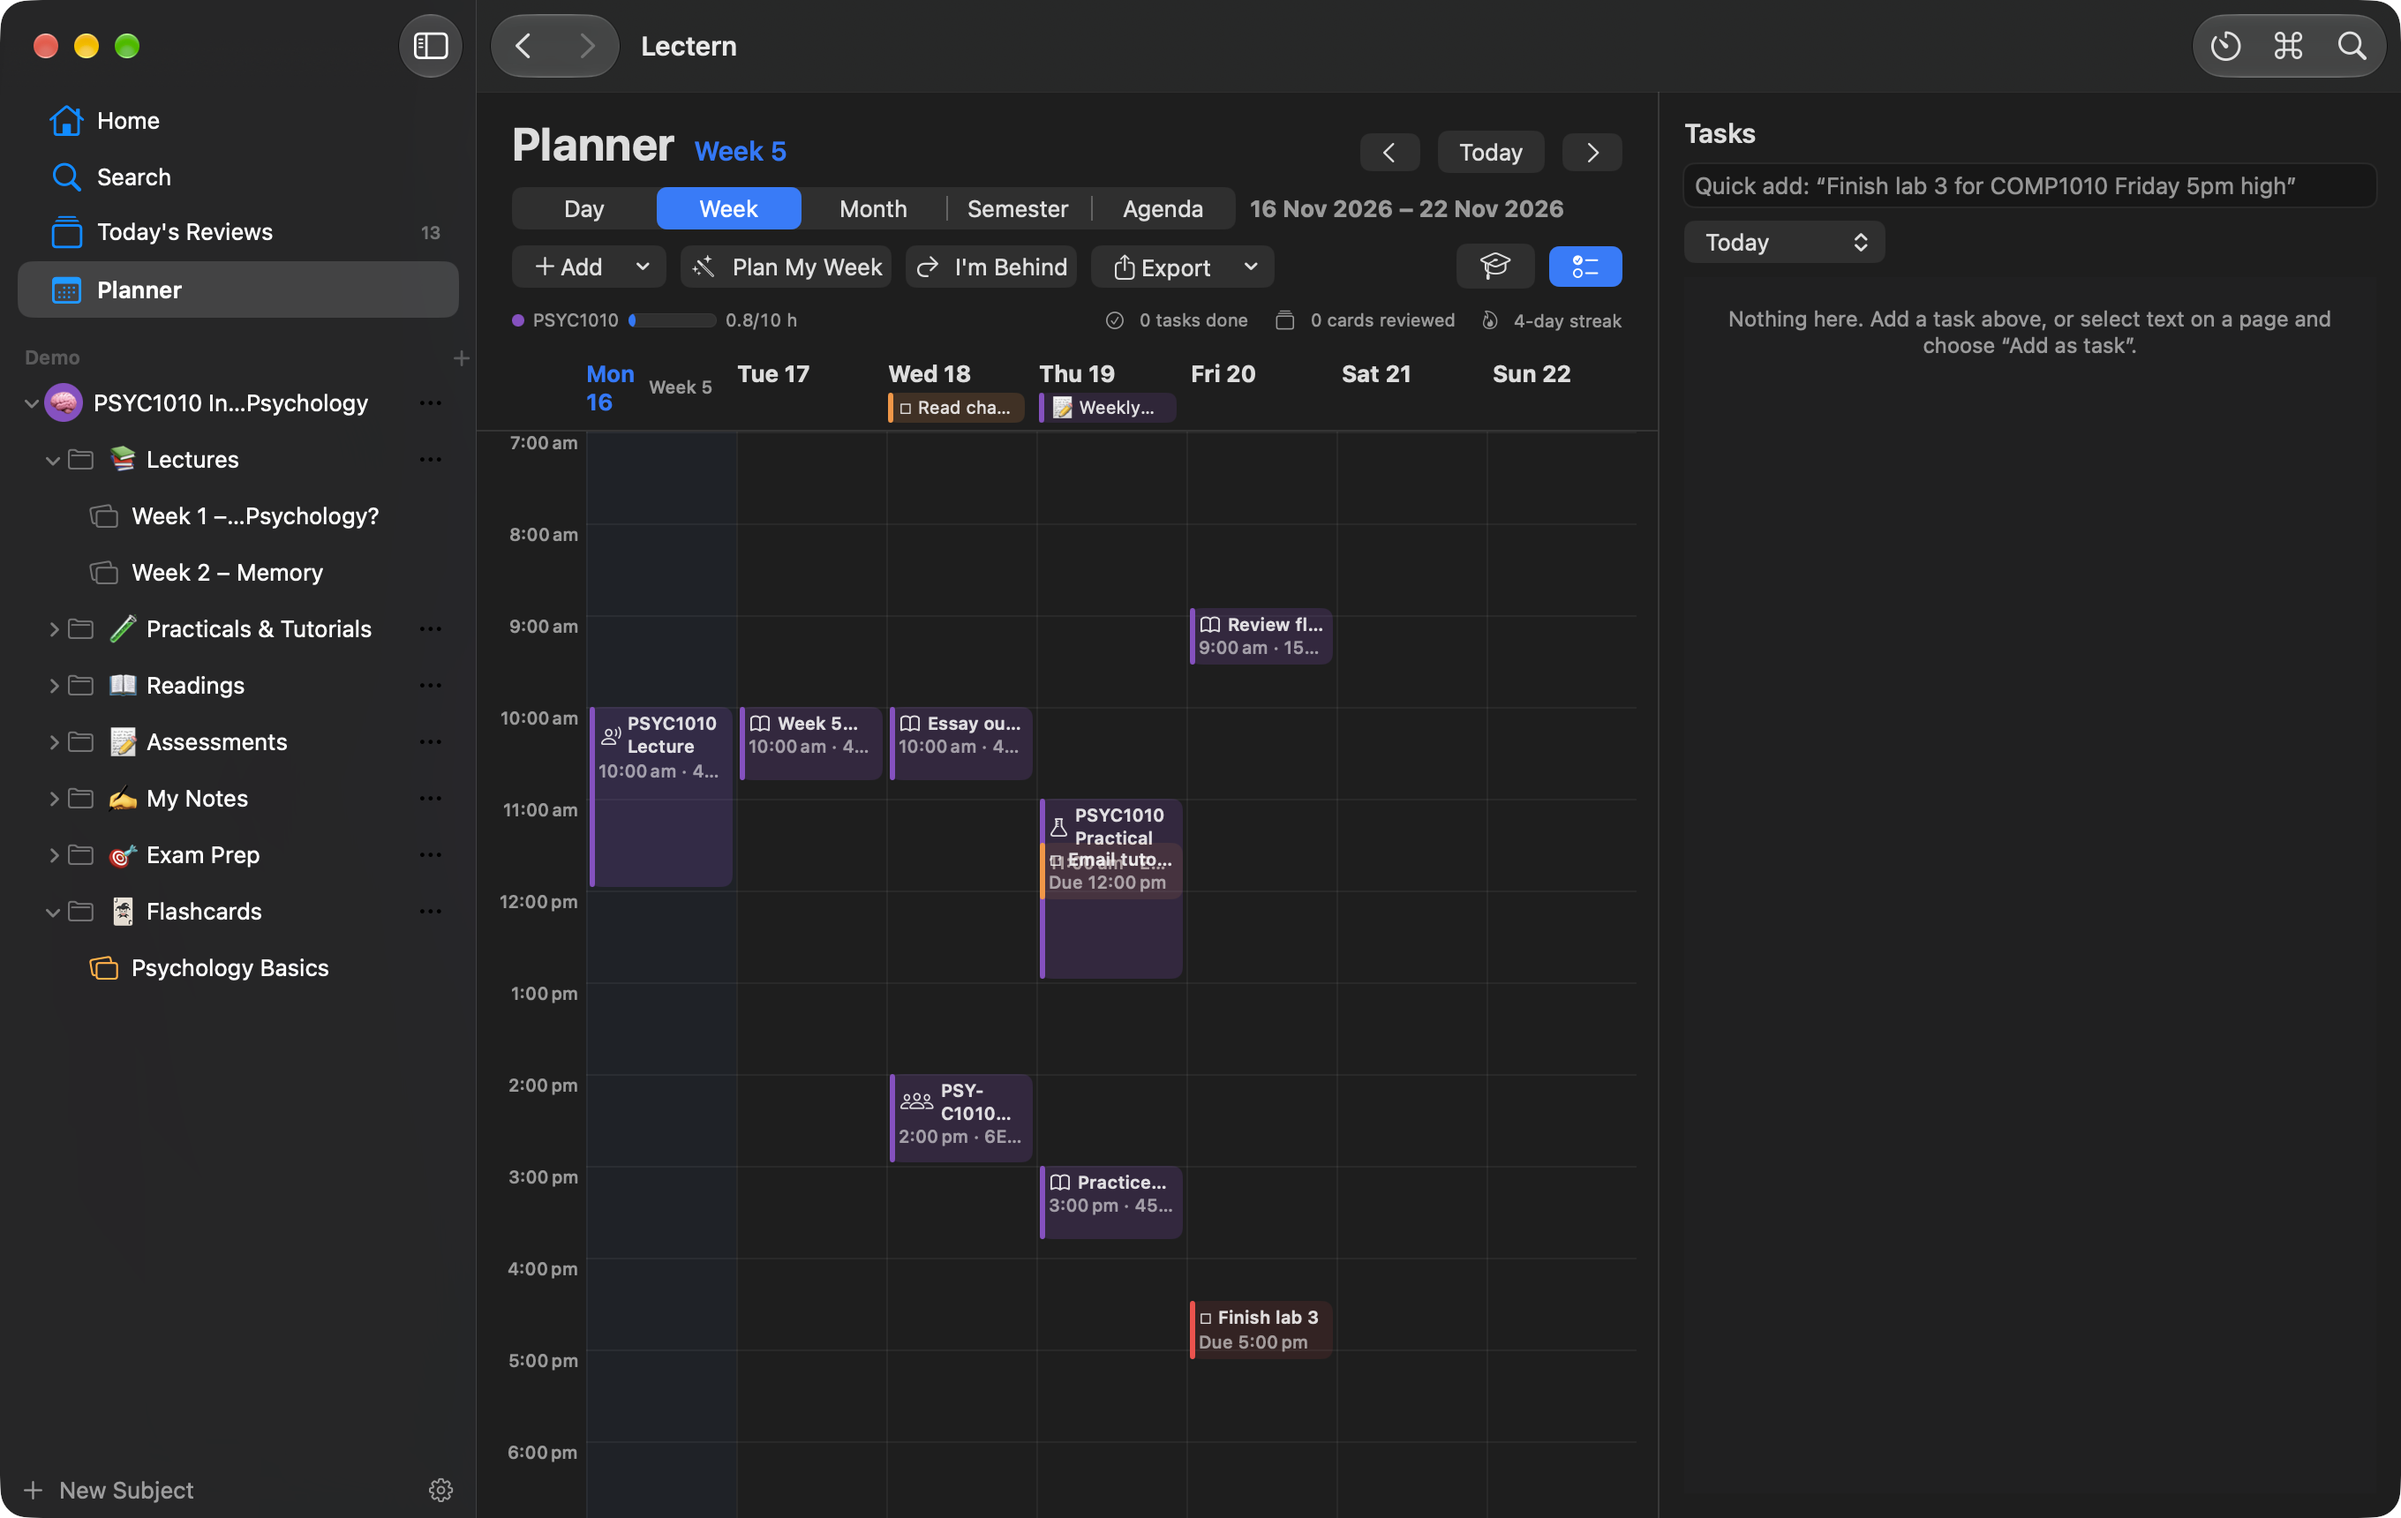
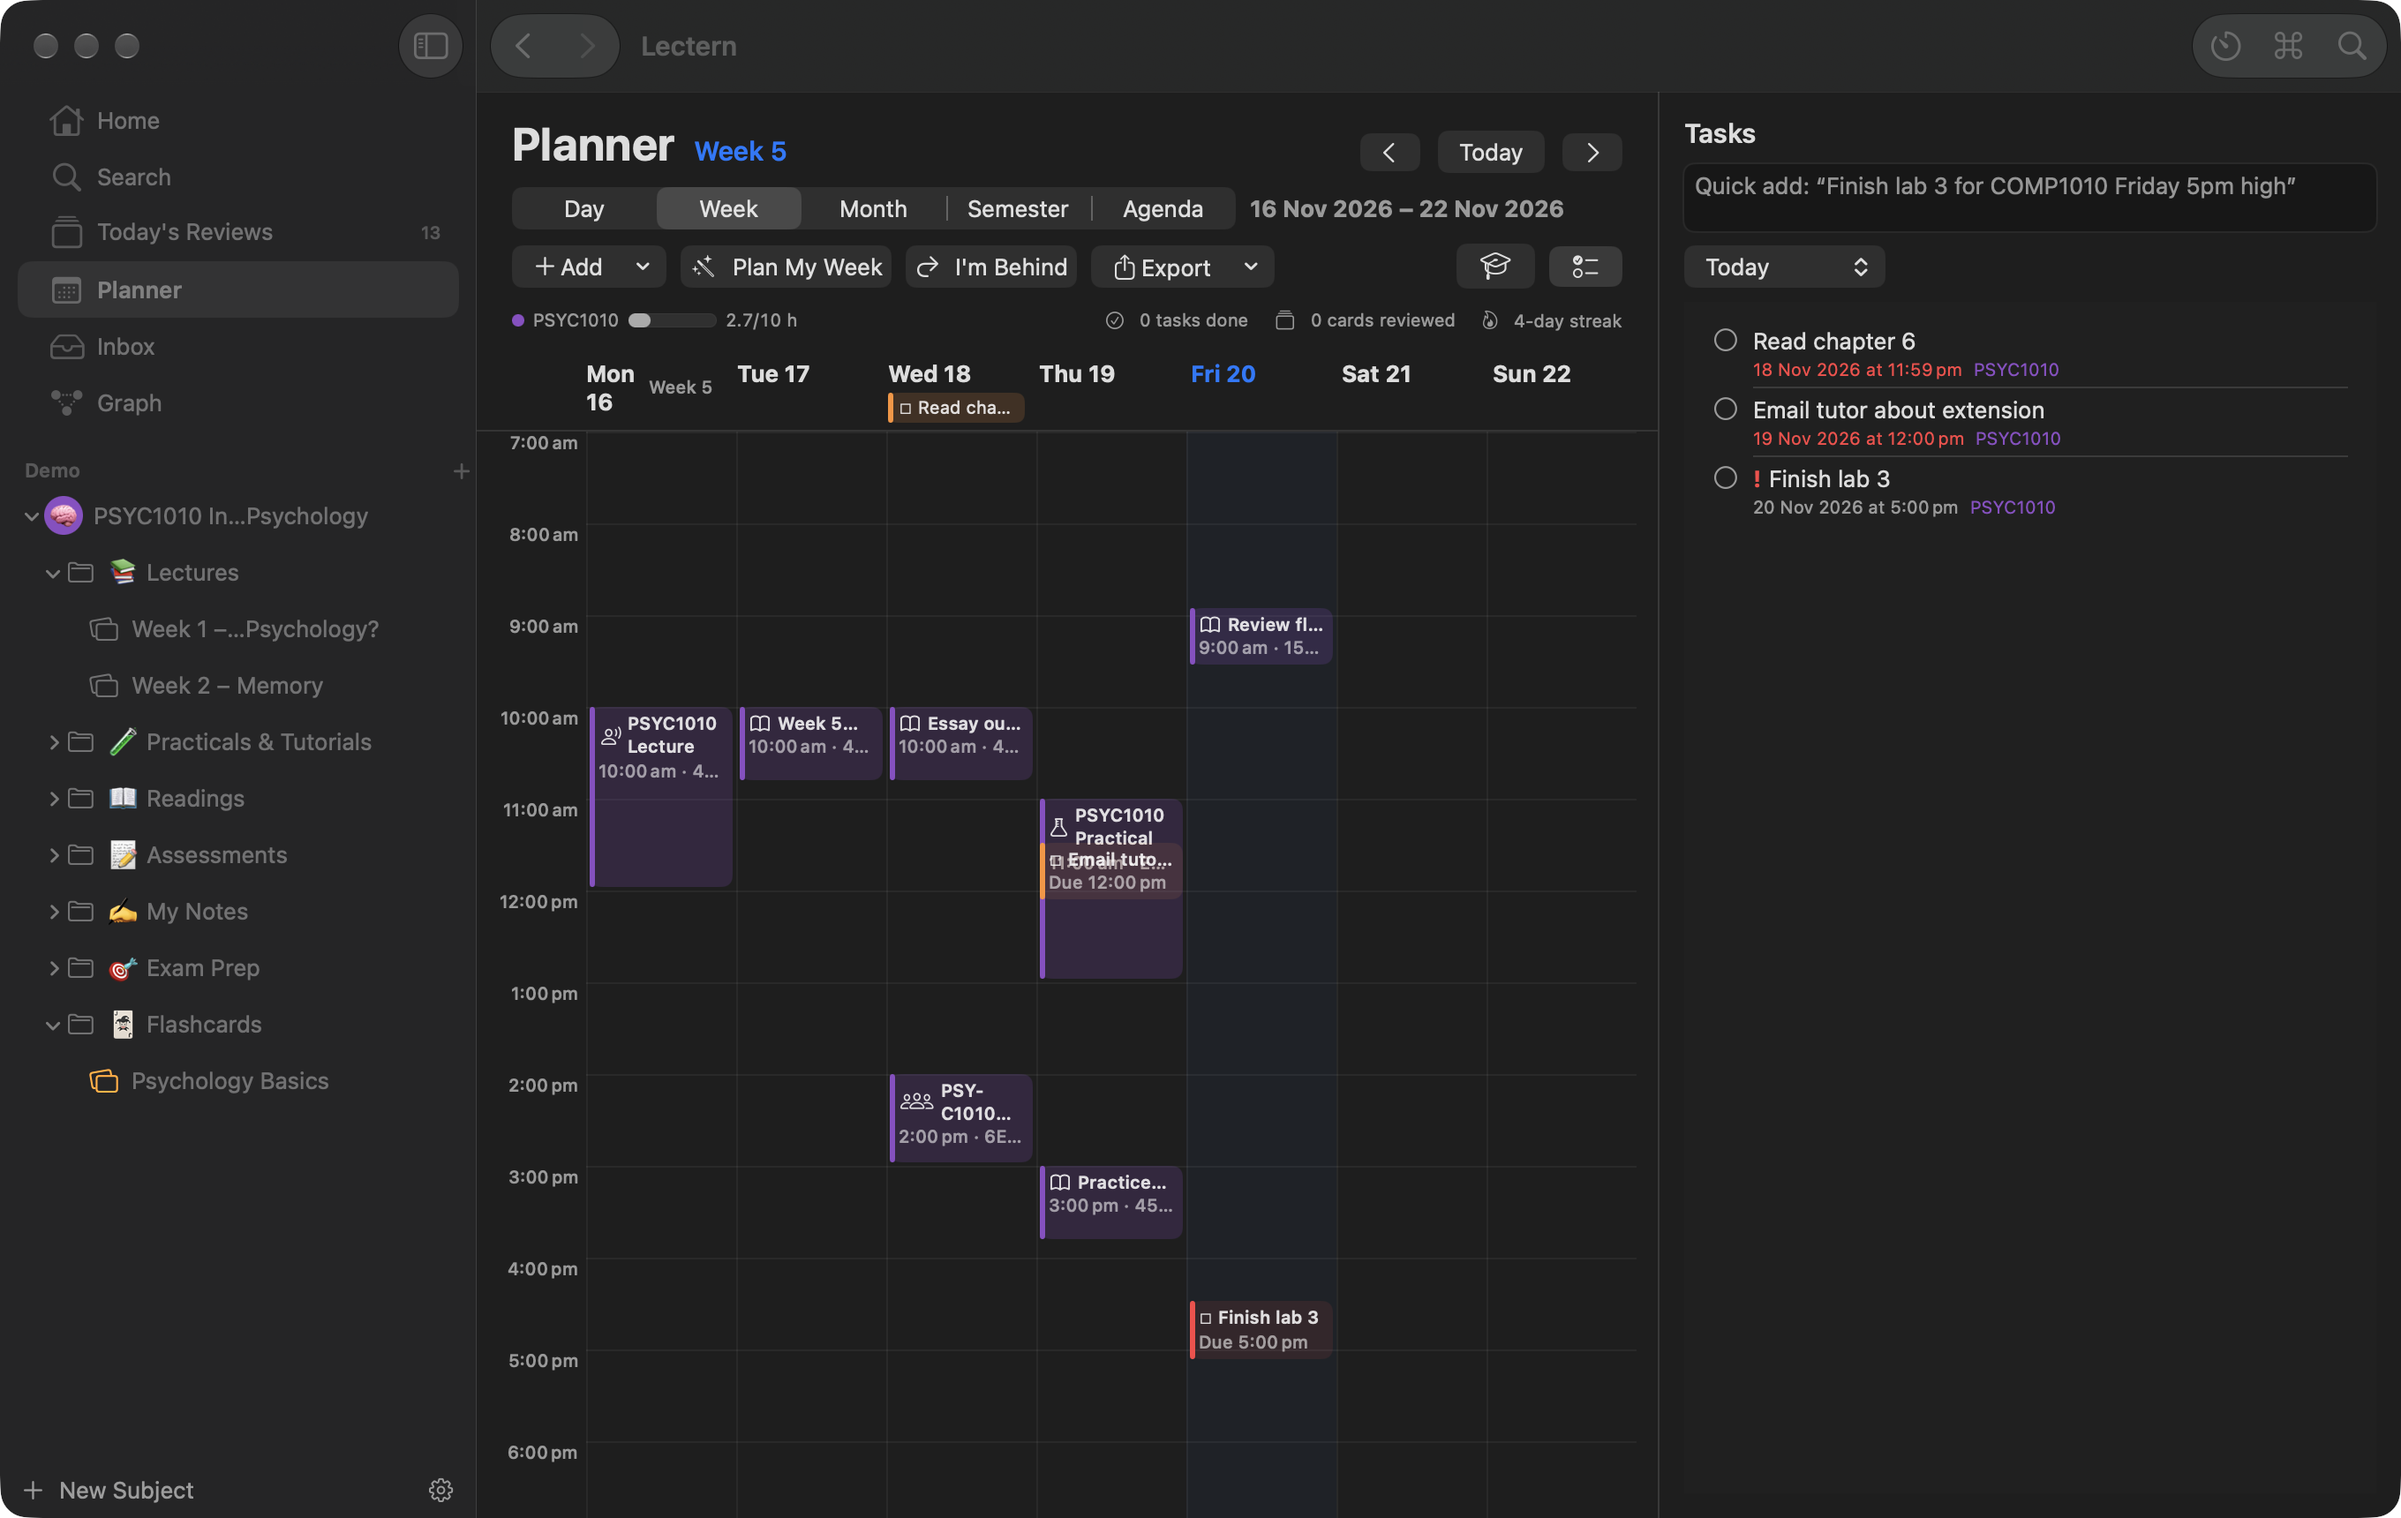
Release 1.6.0

diff --git a/release-notes/1.6.0.html b/release-notes/1.6.0.html
@@ -1,0 +1,4 @@
+<!doctype html><html><head><meta charset="utf-8"><title>Lectern 1.6.0</title>
+<style>body{font:13px -apple-system,sans-serif;margin:16px;color:#222}h2{margin:0 0 4px}h3{margin:14px 0 4px;color:#7a5af0}
+li{margin:3px 0}@media (prefers-color-scheme:dark){body{color:#eee;background:#1e1e1e}}</style></head>
+<body><h2>Lectern 1.6.0</h2><p>Summary Studio with fact-checked summaries, study modes, past papers, Listen, semantic search, quick capture and references</p><p>This is the &quot;1.2.0&quot; feature release. It&#x27;s numbered 1.6.0 because Lectern 1.5.3 is already installed and updates can only go forward.</p><h3>Added</h3><ul><li>**Summary Studio** (wand button on every page, ⇧⌘S): 17 formats (bullets, numbered, checklist, outline, paragraphs, Cornell, three table styles, Q&amp;A, glossary, mind map, timeline, flowchart, one-page cheat sheet, TL;DR, slide by slide, formula sheet, layered, custom); lengths from TL;DR to comprehensive or a word count, with a word and reading-time estimate; level, focus areas and keywords; include/exclude citations, examples, formulas, diagrams, &quot;things to clarify&quot; and exam questions; output language with bilingual key terms; six built-in presets plus your own, with defaults per subject and page type; insert into the page&#x27;s Summary section, at the cursor, as a new page or to the clipboard.</li><li>A new fact-based summary engine: facts first (cached by file and settings, so changing format or length is quick), then writing, then every statement checked against its slides. Unconfirmed statements are marked &quot;⚠ check&quot; with the source on hover. Coverage is checked per slide (per topic for short summaries) and a report line shows slides covered, topics, statements verified, the model and the time. Prompts live in editable files with worked examples; temperatures are 0.2 for facts and checks and 0.5 for writing; small models get smaller sections and topic-by-topic writing.</li><li>Layered summaries (TL;DR, then key points that expand, then slide references), &quot;Summarise together&quot; for several pages with citations like [Slides 12] [Reading p. 4] [Recording 14:32], and week, topic and subject summaries built from page summaries.</li><li>Mind maps, timelines and flowcharts drawn by Lectern, with zoom, PNG/SVG export and &quot;Edit as Outline&quot;.</li><li>Per-section tools (Regenerate, Shorter, Longer, Simpler, More examples, Change format, Verify again), format changes without AI for lists and tables, 👍/👎 ratings that adjust your defaults, and summary version history with side-by-side compare and restore.</li><li>**Summarise All…** and a **Processing Queue** window: progress and time left, pause, resume, cancel, drag to reorder, carries on after a restart, can wait until the Mac is plugged in and idle, and notifies you when done.</li><li>Better reading of files: titles, headings, nesting and reading order (including two-column PDFs), tables from PDF, PowerPoint and Word, speaker notes, formulas as maths, on-device OCR with automatic language detection and a confidence note, and topic detection. Clean-up removes repeated headers and footers, slide numbers, copyright lines, &quot;Questions?&quot;/&quot;Thank you&quot;/agenda/blank slides and build-up duplicates, and joins &quot;(cont.)&quot; slides, with a &quot;Cleaned: removed N…&quot; note you can open.</li><li>New sources: .srt and .vtt captions, transcripts with timestamps, recordings matched to slides, EPUB books by chapter, images and handwriting by OCR, and web articles with their title, author and date.</li><li>**Active recall** (key terms blurred; the ones you didn&#x27;t know become flashcards), **blurting** (timed, typed or dictated, then compared with your notes and scored) and **Feynman mode** (explain to a curious AI student, then get a clarity score). A **Daily Review** on Home: due cards, five quick questions and one blurt, with settings for length and mix.</li><li>**Past papers**: import PDFs or scans, questions and marks are found and linked to your lectures; practise one at a time or as a timed mock, marked against your lectures and any official solution. Likely exam topics, and a readiness score per subject with your five weakest topics and a one-click Planner plan.</li><li>**Listen** (⌥⌘L): pages read aloud with the best installed voice, play/pause, 0.75–2× speed, skip by section, current sentence highlighted, maths read naturally; export a page or a week&#x27;s summaries as an M4A audio file with chapters.</li><li>**Semantic search** with an Ollama embedding model (background indexing, keyword and meaning results combined); &quot;Ask about this subject&quot; uses it with citations; **smart folders** (saved searches) and an interactive **graph** of linked pages in the sidebar.</li><li>**Quick capture** from anywhere (⌃⌥Space): note, paste, link or screenshot (its text is read with OCR), with subject and tags; **Services → Send to Lectern**; an **Inbox** with &quot;Suggest where this belongs&quot;.</li><li>**References**: look up DOIs (Crossref) and ISBNs (Open Library); APA 7, Harvard (AGPS), MLA 9, Chicago and IEEE; copy references and in-text citations; lists per subject or assessment as text, rich text or BibTeX.</li><li>**Reading mode** (⌥⌘R): line width, line, letter and word spacing, a reading ruler and the dyslexia-friendly OpenDyslexic font (SIL Open Font License, included).</li><li>Templates gallery with Weekly Review, Lab Report Planner, Essay Planner and Group Meeting Notes, and &quot;Save as Template…&quot; for any page.</li><li>Daily backups (keeps 14, in a folder you choose) with restore of one page or everything; detection of sync conflict copies with a side-by-side merge.</li><li>Model routing per task (facts, writing, checking, flashcards, chat, embeddings) with an &quot;Auto&quot; choice that picks the best installed model and falls back to Claude within your monthly limit.</li></ul><h3>Changed</h3><ul><li>Tests never read the Keychain.</li></ul><h3>Fixed</h3><ul><li>PDF text no longer loses letters or splits words on some slides.</li></ul></body></html>

diff --git a/README.md b/README.md
@@ -13,6 +13,14 @@ and quizzes, plan your week and get advice for each subject. Everything is saved
 </p>
 
 ## Screenshots
+| Summary Studio | A mind map summary | One-page cheat sheet |
+| --- | --- | --- |
+| ![Summary Studio: format, length and focus options beside a live preview with a verification report](screenshots/8-summary-studio.png) | ![A mind map summary drawn from a lecture, with zoom and export](screenshots/9-mind-map.png) | ![A dense one-page cheat sheet summary](screenshots/10-cheat-sheet.png) |
+
+| Active recall | Past paper practice |
+| --- | --- |
+| ![Active recall: key terms blurred until you reveal them](screenshots/11-active-recall.png) | ![Practising a past exam question with marking against the lectures](screenshots/12-past-paper.png) |
+
 | The new editor and a page's flashcards | Planner week view | Export a subject as one PDF |
 | --- | --- | --- |
 | ![Floating formatting menu and the page flashcard panel](screenshots/5-editor-and-cards.png) | ![Planner week view](screenshots/6-planner.png) | ![Export sheet](screenshots/7-export.png) |
@@ -22,6 +30,17 @@ and quizzes, plan your week and get advice for each subject. Everything is saved
 | ![Home dashboard](screenshots/1-dashboard.png) | ![Subject home](screenshots/2-subject.png) | ![Flashcard review](screenshots/4-flashcards.png) |
 
 ## Features
+- **Summary Studio.** Summarise any lecture, reading or recording in 17 formats (bullets, Cornell notes, tables, Q&A, glossary, mind map, timeline, flowchart, one-page cheat sheet, TL;DR, slide by slide, formula sheet and more), at any length and level, focused on what you choose, in your language. Save presets, and set a default for each subject.
+- **Summaries you can check.** Lectern pulls out the facts first, writes from them, then checks every statement against the slides it cites. Anything it can't confirm is marked "⚠ check" with the source on hover, and a report shows slides covered and statements verified. In our benchmark with a small local model, recall rose from 80% to 98% and faithfulness from 90% to 99% versus 1.5 (see the release notes).
+- **Reads your files properly.** Headings, tables, two-column PDFs, speaker notes, formulas, scanned pages (on-device OCR), captions (.srt/.vtt), EPUB books and web articles. Headers, footers, "Questions?" slides and duplicates are cleaned out first.
+- **Summarise everything at once.** A Processing Queue works through a whole subject in the background, and can wait until your Mac is plugged in and idle.
+- **Practise, don't just reread.** Active recall with blurred key terms, timed blurting, Feynman mode (explain it to a curious AI student), and a Daily Review on Home.
+- **Past papers.** Import past exams, practise or sit a timed mock with marking against your lectures, see likely exam topics, and get a readiness score with a one-click revision plan.
+- **Listen.** Pages read aloud with a natural voice, or exported as an audio file with chapters for the bus.
+- **Search by meaning** with a local embedding model, **smart folders**, and a **graph** of how your pages link.
+- **Quick capture** from any app with ⌃⌥Space (notes, links, screenshots with their text read for you), or Services → Send to Lectern.
+- **References** in APA 7, Harvard, MLA, Chicago or IEEE from a DOI or ISBN, with in-text citations and BibTeX.
+- **Reading mode** with comfortable spacing, a reading ruler and a dyslexia-friendly font, a templates gallery, and daily backups you can restore from.
 - **Slides → notes, any length.** Paste a link to a PDF, PowerPoint, Word file, web page or Google Slides, sign in to iLearn once in Lectern's built-in browser, or just drop the file in. Lectern reads every slide in sections and writes structured notes: an overview, learning objectives, topic notes with clickable **slide citations**, diagrams explained, key terms, a summary, likely exam questions and things to ask your lecturer. A coverage report shows every slide was covered, and lists any that weren't. It runs in the background and can resume if it's interrupted.
 - **Claude or free local models.** Use your own Claude key, or Ollama on your Mac. The Model advisor recommends the best installed model for your Mac, and you can choose a different model for each task.
 - **Slides beside your notes.** Click a slide to see which notes came from it, or click a citation to jump to the slide.
@@ -55,7 +74,7 @@ Lectern checks for updates once a day and tells you when a new version is ready.
 ## Privacy
 Your notes, flashcards and quizzes stay in your University folder; the search index and page history stay on your Mac.
 **With Claude, only the content used for an AI action is sent to Anthropic, and only when you click it** (for example, a lecture's slides when you click Generate Notes), using your own API key, which is kept in your Keychain. With Ollama on your Mac, nothing leaves your Mac.
-Recordings are transcribed on-device. There are no analytics or tracking. Lectern also contacts the sites of links you paste, and GitHub to check for updates.
+Recordings are transcribed on-device, and OCR, read-aloud and semantic search all run on your Mac. There are no analytics or tracking. Lectern also contacts the sites of links you paste, Crossref and Open Library when you look up a DOI or ISBN (only that number is sent), and GitHub to check for updates.
 
 **Academic integrity:** Lectern is for learning. It explains, quizzes and gives feedback, but won't write your assessments.
 
